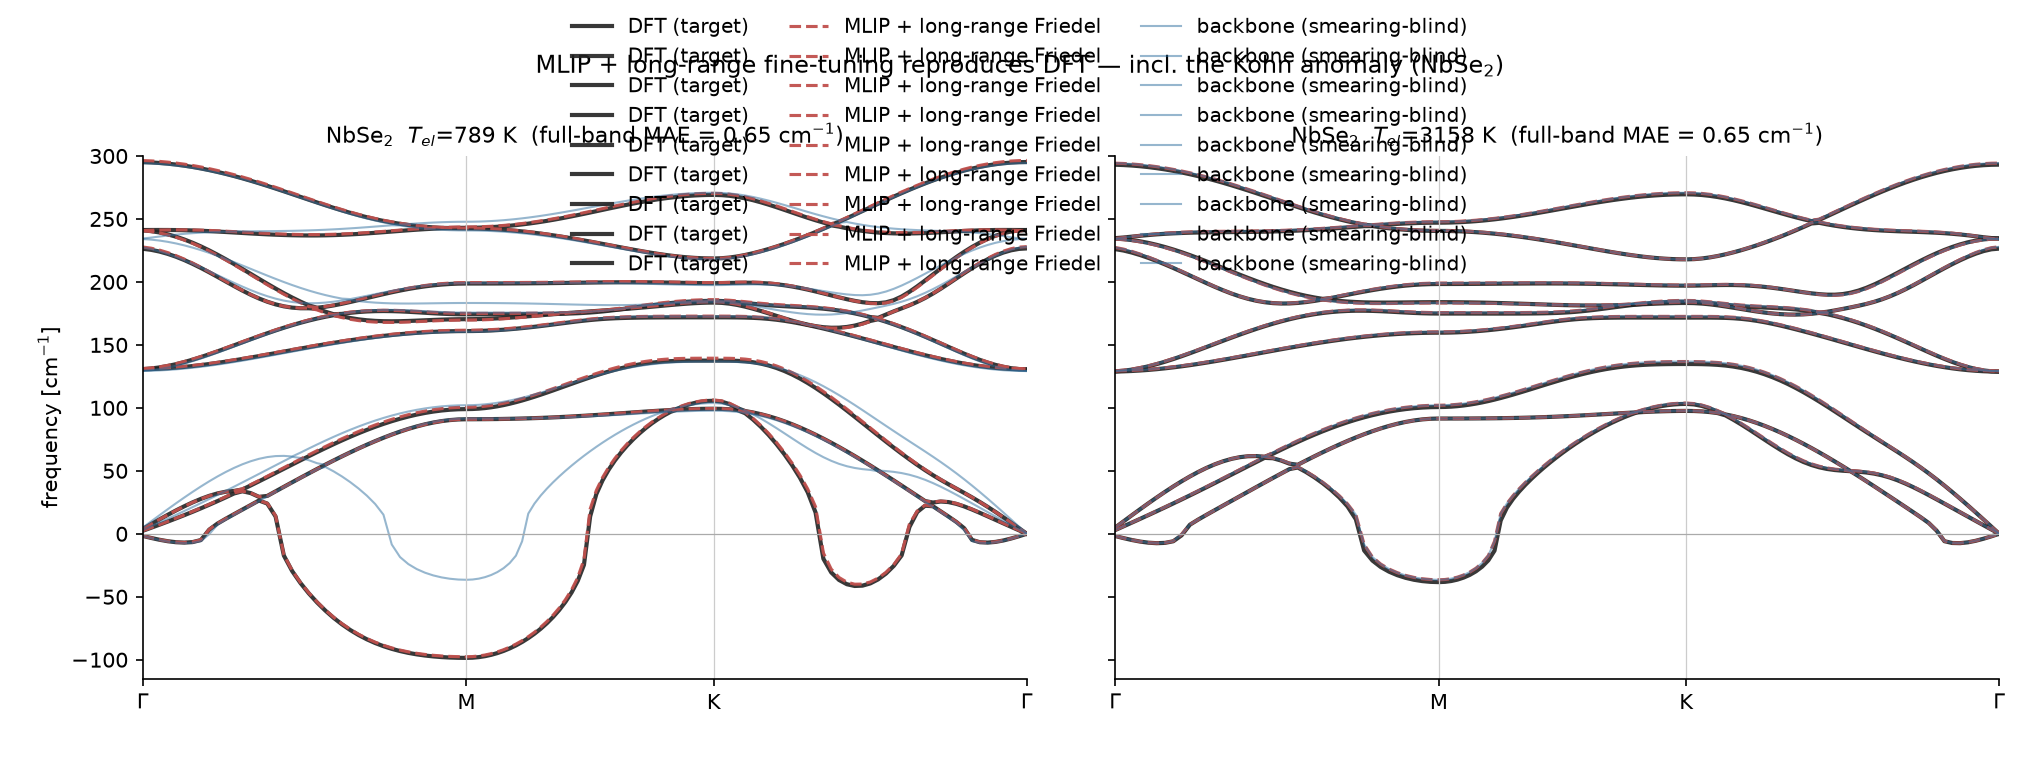
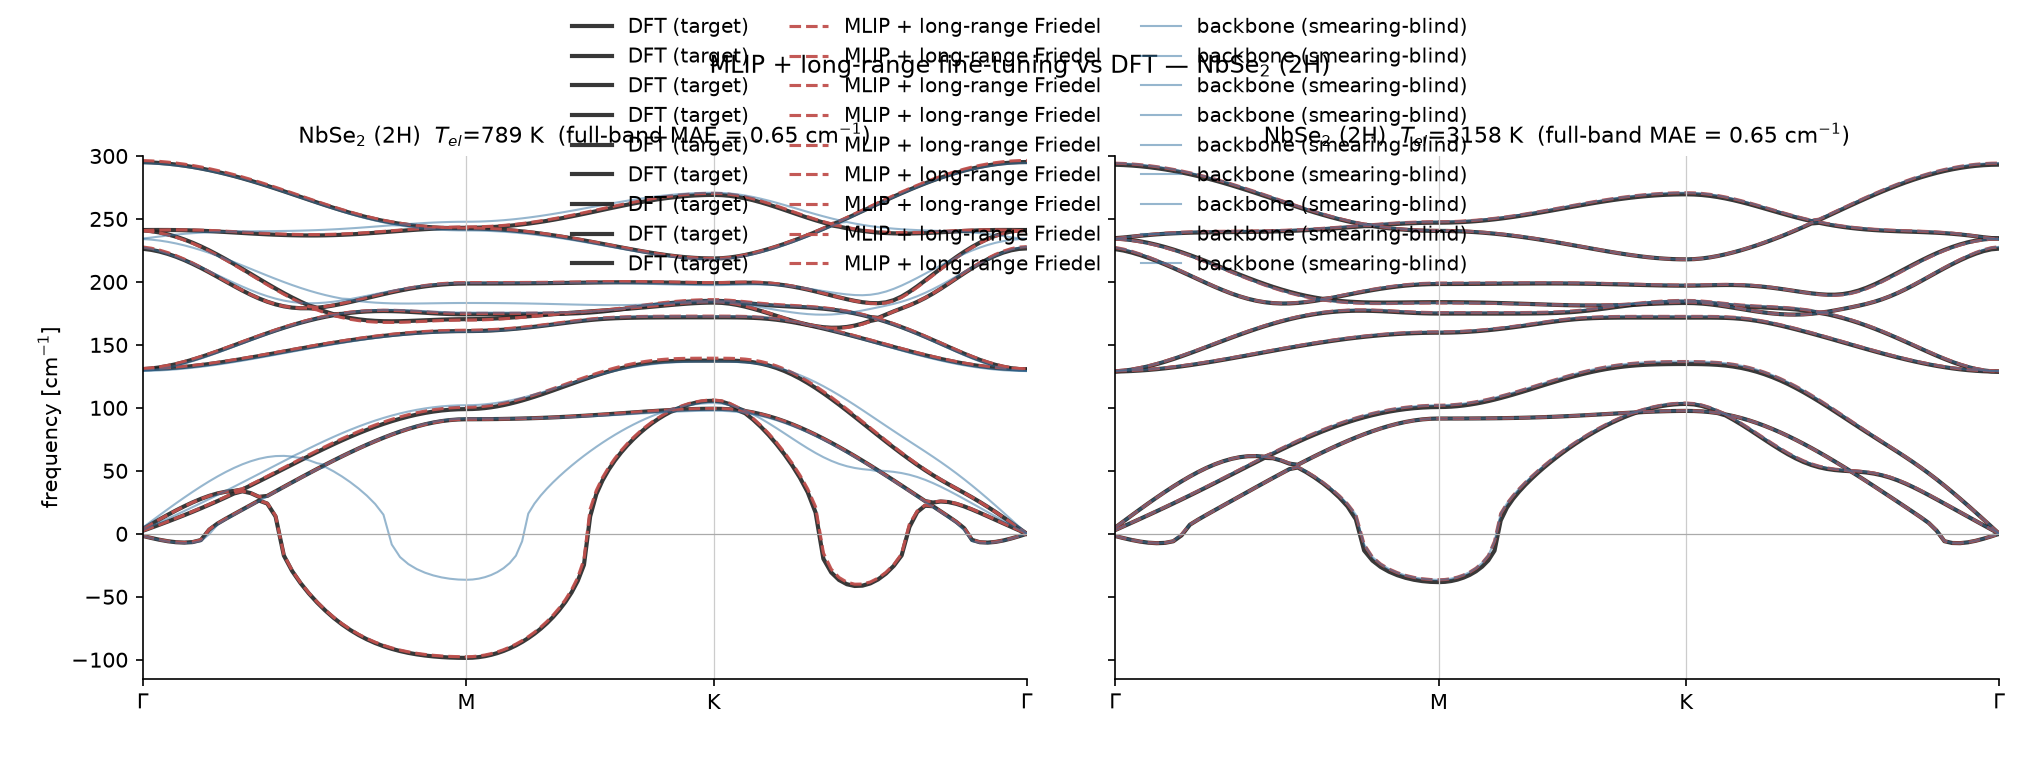
VSe2 deploy-vs-DFT (method boundary): sharp-smearing MAE 0.34, broad-smearing soft-mode residual (-7.1 vs -3.0)
VSe2 (1T, sharp-melting) full-band MAE 0.34 cm^-1 at T_el=789 (good), 1.80 at T_el=3158
(soft-mode residual ~4 cm^-1). Root: deploy fixed-backbone+scaled-D0 assumes non-rotating
soft-mode eigenvector (true for 2H gentle melt, false for VSe2 sharp melt). Honest method
boundary, consistent with VSe2 L-driven origin. deploy_vs_dft_1T-VSe2.png + report 2.2.

Changed region(s): [[0.2471, 0.0615, 0.7412, 0.0923], [0.6176, 0.1538, 0.8956, 0.1846], [0.1544, 0.1538, 0.4324, 0.1846]]

diff --git a/scripts/smearing_kink/plot_phonon_spectra.py b/scripts/smearing_kink/plot_phonon_spectra.py
@@ -250,10 +250,10 @@ def plot_kink_comparison():
     fig.savefig(out, dpi=150, bbox_inches="tight"); print("wrote", out)
 
 
-def plot_deploy_vs_dft():
+def plot_deploy_vs_dft(mat="NbSe2", label=None, ylim=(-115, 300)):
     """MLIP+long-range vs DFT full spectrum (does the method reproduce DFT?).
-    NbSe2: deployed (backbone + Friedel) vs DFT vs smearing-blind backbone."""
-    npz = SK / "deploy_vs_dft_NbSe2.npz"
+    deployed (backbone + Friedel) vs DFT vs smearing-blind backbone."""
+    npz = SK / f"deploy_vs_dft_{mat}.npz"
     if not npz.exists():
         print(f"  [deploy] skip: {npz} missing"); return
     d = np.load(npz, allow_pickle=True)
@@ -263,6 +263,7 @@ def plot_deploy_vs_dft():
     seg_len = len(x) // 3
     tick_x = [x[0], x[seg_len - 1], x[2 * seg_len - 1], x[-1]]
     Ts = [int(t) for t in d["tel"]]
+    lab = label or mat
     fig, axes = plt.subplots(1, len(Ts), figsize=(6.8 * len(Ts), 5.2), sharey=True)
     if len(Ts) == 1:
         axes = [axes]
@@ -277,18 +278,17 @@ def plot_deploy_vs_dft():
             ax.axvline(xt, color="#ccc", lw=0.6)
         ax.axhline(0, color="#aaa", lw=0.6)
         mae = np.mean(np.abs(d[f"mlip_T{T}"] - d[f"dft_T{T}"]))
-        ax.set_title(f"NbSe$_2$  $T_{{el}}$={T} K  (full-band MAE = {mae:.2f} cm$^{{-1}}$)", fontsize=10.5)
-        ax.set_xlim(tick_x[0], tick_x[-1]); ax.set_ylim(-115, 300)
+        ax.set_title(f"{lab}  $T_{{el}}$={T} K  (full-band MAE = {mae:.2f} cm$^{{-1}}$)", fontsize=10.5)
+        ax.set_xlim(tick_x[0], tick_x[-1]); ax.set_ylim(*ylim)
         for s in ("top", "right"):
             ax.spines[s].set_visible(False)
     axes[0].set_ylabel("frequency [cm$^{-1}$]")
-    # single shared legend OUTSIDE (top)
     handles, labels = axes[0].get_legend_handles_labels()
     fig.legend(handles, labels, loc="upper center", ncol=3, bbox_to_anchor=(0.5, 1.0),
                frameon=False, fontsize=9.5)
-    fig.suptitle("MLIP + long-range fine-tuning reproduces DFT — incl. the Kohn anomaly (NbSe$_2$)", fontsize=11.5, y=0.93)
+    fig.suptitle(f"MLIP + long-range fine-tuning vs DFT — {lab}", fontsize=11.5, y=0.93)
     fig.subplots_adjust(left=0.07, bottom=0.13, right=0.98, top=0.80, wspace=0.10)
-    out = SK / "deploy_vs_dft_NbSe2.png"
+    out = SK / f"deploy_vs_dft_{mat}.png"
     fig.savefig(out, dpi=150); print("wrote", out)
 
 
@@ -298,4 +298,6 @@ if __name__ == "__main__":
     if which in ("L", "both"): plot_L()
     if which in ("Ltdep", "all"): plot_L_tdep()
     if which in ("kink", "all"): plot_kink_comparison()
-    if which in ("deploy", "all"): plot_deploy_vs_dft()
+    if which in ("deploy", "all"):
+        plot_deploy_vs_dft("NbSe2", "NbSe$_2$ (2H)")
+        plot_deploy_vs_dft("1T-VSe2", "1T-VSe$_2$ (1T, sharp-melting)")
